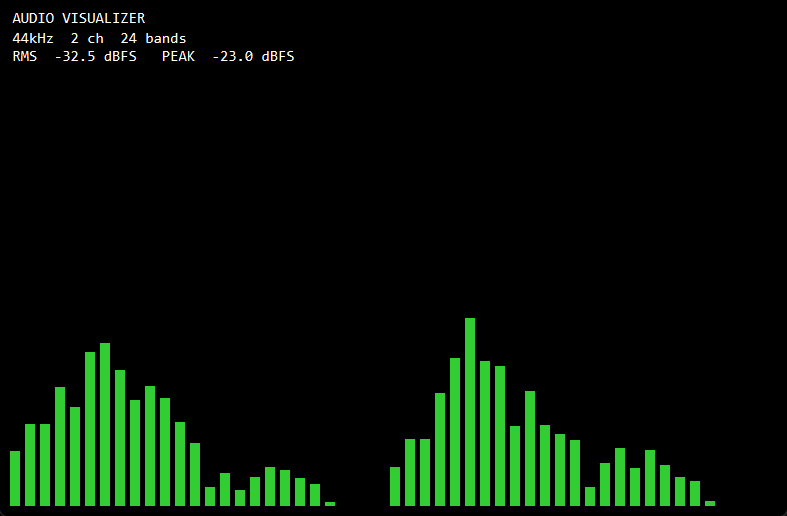
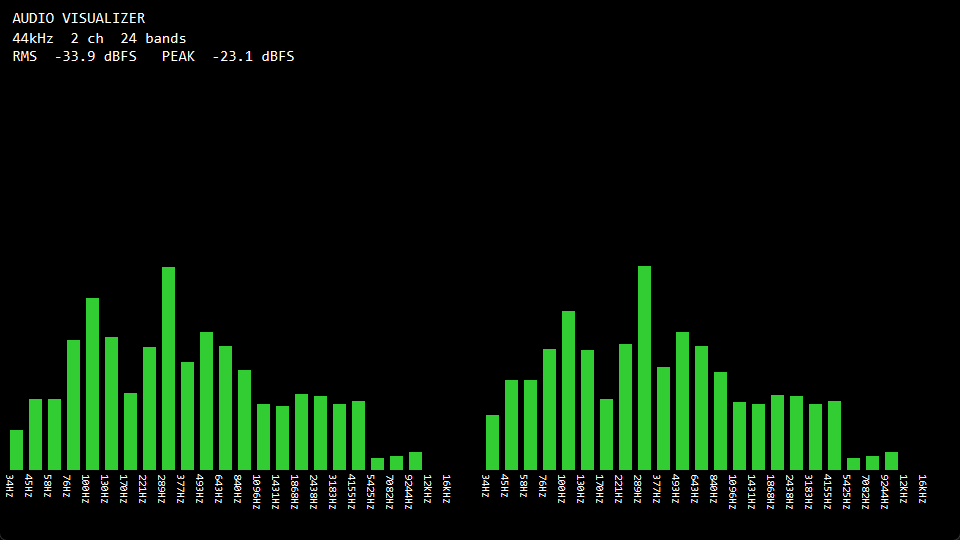
Add vertical frequency labels below console-style bars

Changed region(s): [[0.0, 0.4961, 0.9759, 0.9922], [0.0, 0.0, 0.3659, 0.124]]

diff --git a/AudioVisualizer/Visualization/Effects/ConsoleStyleBarsEffect.cs b/AudioVisualizer/Visualization/Effects/ConsoleStyleBarsEffect.cs
@@ -71,7 +71,7 @@ public sealed class ConsoleStyleBarsEffect : IVisualizationEffect
 
         var originX = 10;
         var originY = 60;
-        var maxBarHeight = Math.Max(40, bounds.Height - originY - 10);
+        var maxBarHeight = Math.Max(40, bounds.Height - originY - 70);
 
         var channels = _rightDisplayed.Length > 0 ? 2 : 1;
         var interChannelGap = 20;
@@ -89,6 +89,21 @@ public sealed class ConsoleStyleBarsEffect : IVisualizationEffect
         {
             var rightOrigin = originX + (_leftDisplayed.Length * (barWidth + gap)) + interChannelGap;
             DrawBars(graphics, _rightDisplayed, rightOrigin, originY, barWidth, gap, maxBarHeight, greenBrush, yellowBrush, redBrush);
+        }
+
+        if (_lastFrame is not null)
+        {
+            using var labelFont = new Font("Consolas", 8f);
+            using var labelBrush = new SolidBrush(Color.White);
+            var labels = GetBandLabels(_leftDisplayed.Length, 30, 18000, _lastFrame.SampleRate);
+            DrawLabels(graphics, labels, originX, originY, maxBarHeight, barWidth, gap, labelFont, labelBrush);
+
+            if (_rightDisplayed.Length > 0)
+            {
+                var rightOrigin = originX + (_leftDisplayed.Length * (barWidth + gap)) + interChannelGap;
+                var rightLabels = GetBandLabels(_rightDisplayed.Length, 30, 18000, _lastFrame.SampleRate);
+                DrawLabels(graphics, rightLabels, rightOrigin, originY, maxBarHeight, barWidth, gap, labelFont, labelBrush);
+            }
         }
 
 
@@ -143,5 +158,61 @@ public sealed class ConsoleStyleBarsEffect : IVisualizationEffect
                 graphics.FillRectangle(redBrush, x, baseY - greenHeight - yellowHeight - redHeight, barWidth, redHeight);
             }
         }
+    }
+
+    private static void DrawLabels(
+        Graphics graphics,
+        string[] labels,
+        int originX,
+        int originY,
+        int maxBarHeight,
+        int barWidth,
+        int gap,
+        Font font,
+        Brush brush)
+    {
+        var baseY = originY + maxBarHeight + 2;
+
+        for (var band = 0; band < labels.Length; band++)
+        {
+            var x = originX + band * (barWidth + gap) + (barWidth / 2);
+            var state = graphics.Save();
+            graphics.TranslateTransform(x, baseY);
+            graphics.RotateTransform(90f);
+            graphics.DrawString(labels[band], font, brush, 0, 0);
+            graphics.Restore(state);
+        }
+    }
+
+    private static string[] GetBandLabels(int bandCount, double minFrequency, double maxFrequency, int sampleRate)
+    {
+        var labels = new string[bandCount];
+        if (bandCount == 0)
+        {
+            return labels;
+        }
+
+        var nyquist = sampleRate / 2.0;
+        var maxFreq = Math.Min(maxFrequency, nyquist);
+        var minFreq = Math.Min(minFrequency, maxFreq);
+        if (minFreq <= 0)
+        {
+            minFreq = 1;
+        }
+
+        var logMin = Math.Log(minFreq);
+        var logMax = Math.Log(maxFreq);
+
+        for (var band = 0; band < bandCount; band++)
+        {
+            var fraction = (band + 0.5) / bandCount;
+            var frequency = Math.Exp(logMin + ((logMax - logMin) * fraction));
+            var rounded = Math.Round(frequency, MidpointRounding.AwayFromZero);
+            labels[band] = rounded < 10000
+                ? $"{rounded:0}Hz"
+                : $"{rounded / 1000:0}kHz";
+        }
+
+        return labels;
     }
 }
